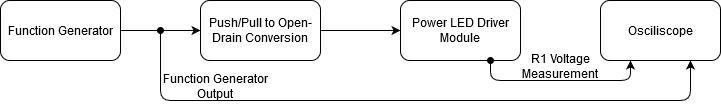
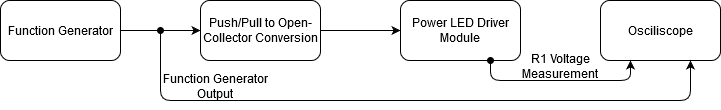
discussion of power led performance

Changed region(s): [[0.2746, 0.3, 0.4577, 0.3818]]

diff --git a/body/Results.tex b/body/Results.tex
@@ -60,14 +60,14 @@ The following screenshots shown in figures \ref{fig:pwr_led_6k} through \ref{fig
 	\centering
 	\begin{minipage}{.399\linewidth}
 		\centering
-		\includegraphics[width=\textwidth]{figures/results/power_led_driver/6khz.JPG}
+		\includegraphics[width=\textwidth]{figures/results/power_led_driver/6khz_crop.JPG}
 		\captionof{figure}{6kHz Driving Frequency}
 		\label{fig:pwr_led_6k}
 	\end{minipage}%
 	\hspace{.1\linewidth}
 	\begin{minipage}{.399\linewidth}
 		\centering
-		\includegraphics[width=\textwidth]{figures/results/power_led_driver/36khz.JPG}
+		\includegraphics[width=\textwidth]{figures/results/power_led_driver/36khz_crop.JPG}
 		\captionof{figure}{36kHz Driving Frequency}
 		\label{fig:pwr_led_36k}
 	\end{minipage}
@@ -77,14 +77,14 @@ The following screenshots shown in figures \ref{fig:pwr_led_6k} through \ref{fig
 	\centering
 	\begin{minipage}{.4\linewidth}
 		\centering
-		\includegraphics[width=\textwidth]{figures/results/power_led_driver/66khz.JPG}
+		\includegraphics[width=\textwidth]{figures/results/power_led_driver/66khz_crop.JPG}
 		\captionof{figure}{66kHz Driving Frequency}
 		\label{fig:pwr_led_66k}
 	\end{minipage}
 	\hspace{.1\linewidth}
 	\begin{minipage}{.4\linewidth}
 		\centering
-		\includegraphics[width=\textwidth]{figures/results/power_led_driver/96khz.JPG}
+		\includegraphics[width=\textwidth]{figures/results/power_led_driver/96khz_crop.JPG}
 		\captionof{figure}{96kHz Driving Frequency}
 		\label{fig:pwr_led_96k}
 	\end{minipage}
@@ -107,7 +107,11 @@ The following screenshots shown in figures \ref{fig:pwr_led_6k} through \ref{fig
 
 %%%%%%%%%%	DISCUSSION	%%%%%%%%%%
 \textbf{Discussion}\\
-%todo: discuss these results
+For each test frequency, the power LED driver module regulated the current with a high precision and no noticeable ripple. This encapsulates the advantages of linear regulation.
+
+The design predicted a current limit of 1.02A. These results show that the real current limit is 0.91A. This result predicts that the actual base-emitter voltage drop\footnote{at equilibrium} is closer to 0.62V.
+
+The duty cycle of the LED current decreases for increasing input frequencies. This can be attributed to the rise-time of the current through the LED (the time taken for the current to reach steady state). As the driving frequency increases, this rise-time makes up an increasing portion of the total on-time.
 %%%%%%%%%%	/DISCUSSION	%%%%%%%%%%
 
 
@@ -276,8 +280,6 @@ A 765ns cross-over delay can be observed, this is the period of time that elapse
 
 \subsubsection{Simulated Frequency Response}
 
-%disc. (discussion) removed
-
 \begin{figure}[H]
 	\centering
 	\includegraphics[width=\linewidth]{figures/results/goertzel_filter_simulation_wide.png}
@@ -285,7 +287,6 @@ A 765ns cross-over delay can be observed, this is the period of time that elapse
 	\label{fig:goertzel_filter_response_simulated}
 \end{figure}
 
-%disc. removed
 
 
 %%%%%%%%%%	DISCUSSION	%%%%%%%%%%
@@ -407,9 +408,6 @@ The recorded results are plotted in figure \ref{fig:goertzel_computation_plot} t
 \end{figure}
 
 
-
-
-%disc. removed
 %%%%%%%%%%	DISCUSSION	%%%%%%%%%%
 \textbf{Discussion}\\
 Figure \ref{fig:goertzel_computation_plot} provides two important insights to the nature of the goertzel algorithm. The first observation may be found in the linearity of both plots, this confirms that both implementations of the algorithm have a time complexity of O(N) as noted in section \ref{sec:filter_optimization_design}. The practically perfect linearity in the results makes it possible to predict the timing requirements and make accurate theoretical predictions.

diff --git a/body/Experimentation.tex b/body/Experimentation.tex
@@ -63,7 +63,7 @@ To verify that the power LED driver module operates as expected and to evaluate 
 	\label{fig:power_led_driver_experiemnet_setup}
 \end{figure}
 
-Each test input was generated as a square wave and converted to an open-drain signal before being injected into the driver module. To precisely monitor the LED's state, an oscilloscope was connected across the shunt resistor R1 (see schematic in figure \ref{fig:schematic_power_led_driver}). Monitoring the resistor provided insight into both the state of the LED and the current through the LED. The current through the power LED was calculated using the equation \(I_{led} = \frac{V_{R1}}{0.68\Omega}\).
+Each test input was generated as a square wave using a function generator and converted to an open-collector signal before being injected into the driver module. To monitor the LED's state, an oscilloscope was connected across the shunt resistor R1 (see schematic in figure \ref{fig:schematic_power_led_driver}). Monitoring the resistor provided insight into both the state of the LED and the current through the LED. The current flowing through the power LED was calculated using Ohms law. \(I_{led} = \frac{V_{R1}}{0.68\Omega}\).
 
 
 

diff --git a/body/Design.tex b/body/Design.tex
@@ -161,7 +161,7 @@ Current regulation is performed by MOSFET M1, transistor Q1 and shunt resistor R
 
 As the current through R1 increases, the voltage across the base-emitter of Q1 overcomes the forward voltage and the transistor begins to conduct. This conduction pulls the gate of M1 to ground reducing the current flowing through the LED.
 
-The maximum current ($I_{max}$) is set by choosing R1 such that the voltage across R1 is equal to the diode drop of the base-emitter of Q1. The diode drop may be approximated as 0.7V.
+The maximum current ($I_{max}$) is set by choosing R1 such that the voltage across R1 is equal to the diode drop of the base-emitter of Q1. A conservative estimate for the diode drop is 0.7V.
 
 R1 was chosen to be $0.68\Omega$, to achieve a current limit of just over 1A.
 

diff --git a/body/Introduction.tex b/body/Introduction.tex
@@ -103,7 +103,7 @@ No error correction but basic error detection (todo: elaborate)
 
 
 \section{Plan of development}
-Here you tell the reader how your report has been organised and what is included in each
-chapter.
+%Here you tell the reader how your report has been organised and what is included in each chapter.
+% {\bf I recommend that you write this section last. You can then tailor it to your report.}
 
-{\bf I recommend that you write this section last. You can then tailor it to your report.}
+%todo: this section
